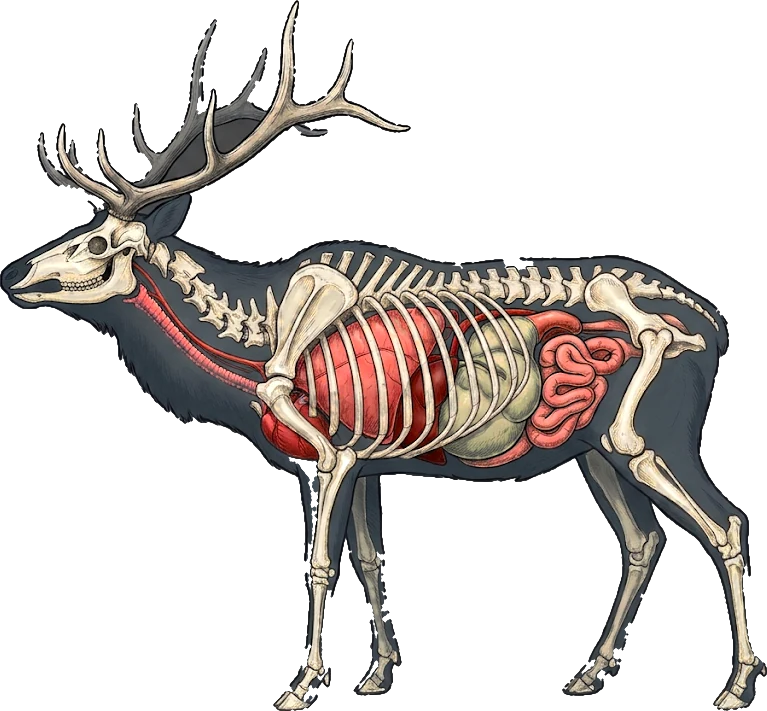
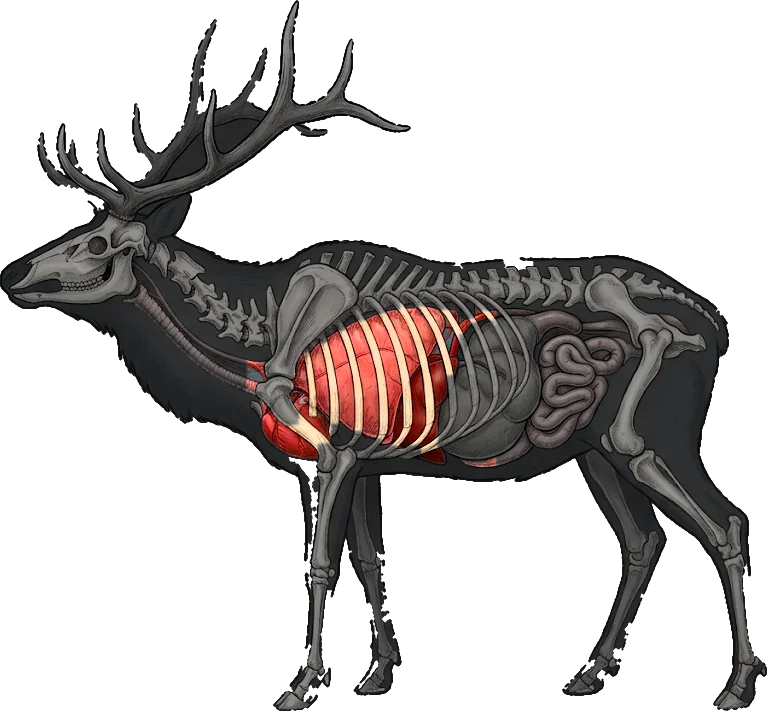
Elk image: dim everything but heart and lungs; cache v22
Claude-Session: https://claude.ai/code/session_01XpMtuAb4amgVB6hCKMphiV

Changed region(s): [[0.0, 0.0, 1.0, 1.0], [0.2699, 0.0309, 0.2999, 0.0619], [0.1499, 0.1547, 0.1799, 0.1857]]

diff --git a/sw.js b/sw.js
@@ -1,6 +1,6 @@
 /* Carbon Rogue Solver - offline service worker.
    Bump CACHE on every deploy so phones pick the new build up. */
-const CACHE = "rogue-solver-v21";
+const CACHE = "rogue-solver-v22";
 const SHELL = [
   "./",
   "./manifest.webmanifest",
